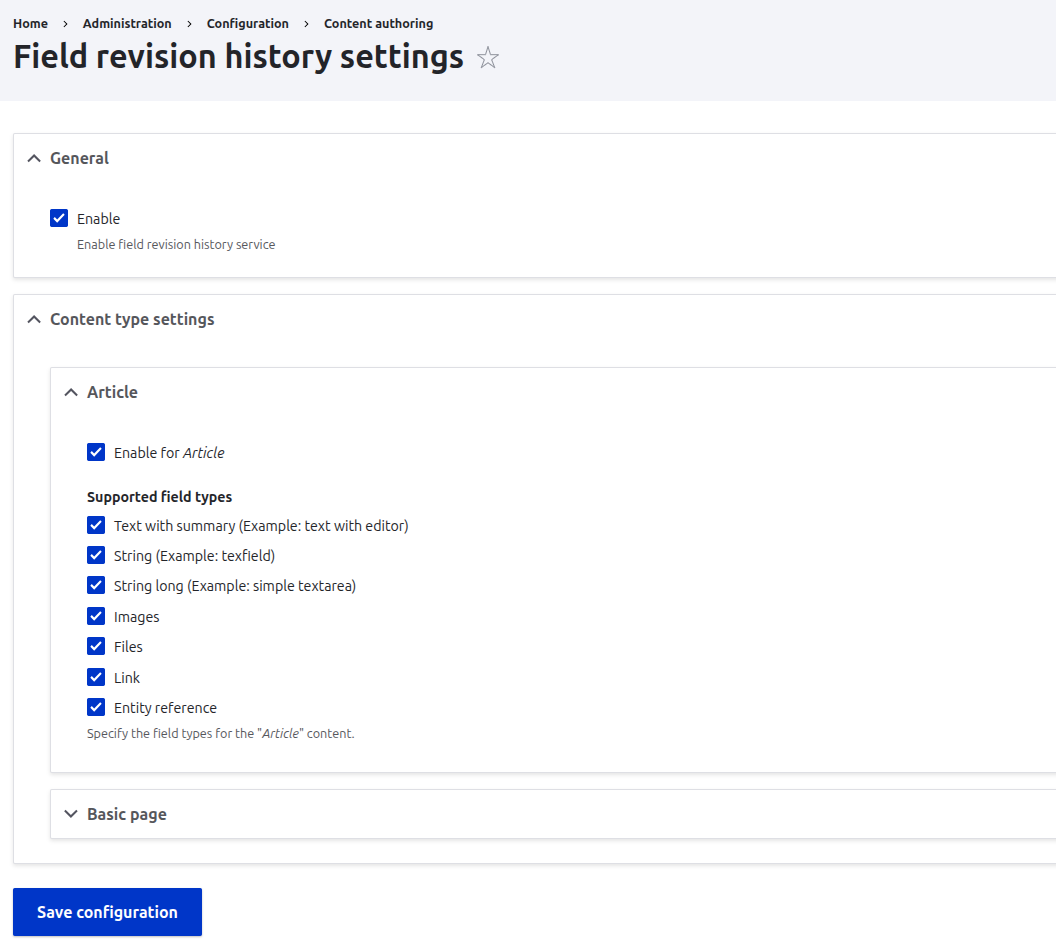
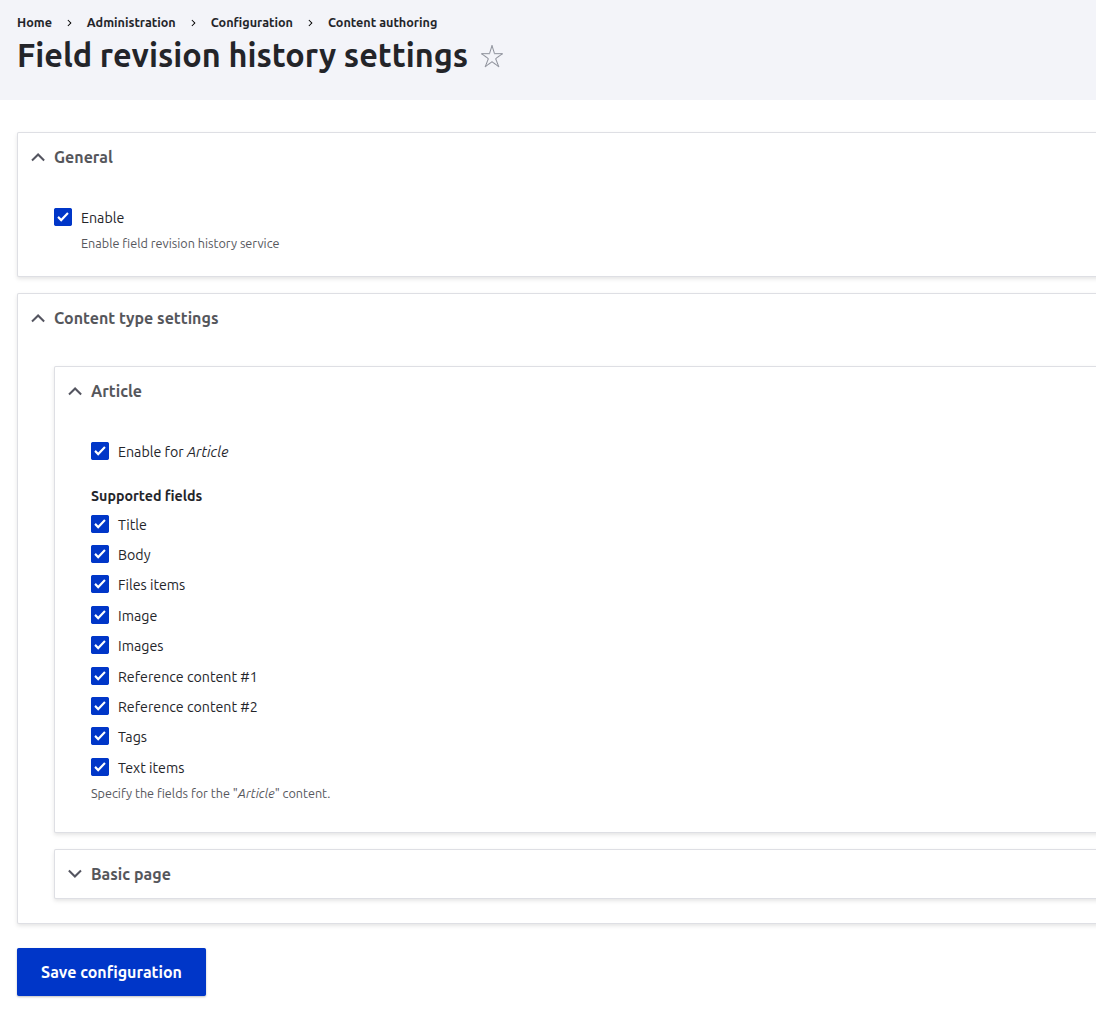
Refactor logic of settings form

diff --git a/src/FieldRevisionHistoryHelper.php b/src/FieldRevisionHistoryHelper.php
@@ -3,11 +3,13 @@
 namespace Drupal\field_revision_history;
 
 use Drupal\Component\Serialization\Json;
+use Drupal\Core\Config\ConfigFactoryInterface;
 use Drupal\Core\Datetime\DateFormatter;
 use Drupal\Core\Entity\EntityFieldManagerInterface;
 use Drupal\Core\Entity\EntityInterface;
 use Drupal\Core\Entity\EntityTypeManagerInterface;
 use Drupal\Core\Entity\RevisionableInterface;
+use Drupal\Core\Field\FieldDefinitionInterface;
 use Drupal\Core\Link;
 use Drupal\Core\Session\AccountInterface;
 use Drupal\Core\StringTranslation\StringTranslationTrait;
@@ -20,6 +22,20 @@ use Drupal\Core\Url;
 class FieldRevisionHistoryHelper {
 
   use StringTranslationTrait;
+
+  /**
+   * Fields list of system fields array.
+   */
+  public array $available_system_fields = [
+    'title',
+  ];
+
+  /**
+   * Fields list of system fields array.
+   */
+  public array $unavailable_system_fields = [
+    'comment',
+  ];
 
   /**
    * The date formatter service.
@@ -43,6 +59,14 @@ class FieldRevisionHistoryHelper {
   protected EntityFieldManagerInterface $entityFieldManager;
 
   /**
+   * The config service.
+   *
+   * @var ConfigFactoryInterface
+   *   The config service.
+   */
+  protected ConfigFactoryInterface $configFactory;
+
+  /**
    * The translation manager.
    *
    * @var TranslationInterface
@@ -58,8 +82,8 @@ class FieldRevisionHistoryHelper {
    *   The entity type manager.
    * @param EntityFieldManagerInterface $entity_field_manager
    *   The entity field manager.
-   * @param AccountInterface $current_user
-   *   The current user manager.
+   * @param ConfigFactoryInterface $config_factory
+   *   The config factory manager.
    * @param TranslationInterface $string_translation
    *   The string translation service.
    */
@@ -67,11 +91,13 @@ class FieldRevisionHistoryHelper {
     DateFormatter $date_formatter,
     EntityTypeManagerInterface $entity_type_manager,
     EntityFieldManagerInterface $entity_field_manager,
+    ConfigFactoryInterface $config_factory,
     TranslationInterface $string_translation,
   ) {
     $this->dateFormatter = $date_formatter;
     $this->entityTypeManager = $entity_type_manager;
     $this->entityFieldManager = $entity_field_manager;
+    $this->configFactory = $config_factory;
     $this->stringTranslation = $string_translation;
   }
 
@@ -387,6 +413,76 @@ class FieldRevisionHistoryHelper {
     }
 
     return Url::fromRoute($route, $options);
+  }
+
+  /**
+   * Help function to check is the service enabled or not.
+   *
+   * @return bool
+   *   Enabled or not.
+   */
+  public function isServiceEnabled(): bool {
+    $settings = $this->configFactory->get('field_revision_history.settings');
+    $enabled = $settings->get('enabled') ?? FALSE;
+    if (!$enabled) {
+      return FALSE;
+    }
+
+    return TRUE;
+  }
+
+  /**
+   * Help function to check is the current entity bundle enabled or not.
+   *
+   * @param EntityInterface $entity
+   *   The source entity.
+   *
+   * @return bool
+   *   Enabled or not.
+   */
+  public function isEntityBundleEnabled(EntityInterface $entity): bool {
+    $settings = $this->configFactory->get('field_revision_history.settings');
+    $entity_types = $settings->get('entity_types') ?? FALSE;
+    $enabled = $entity_types[$entity->getEntityTypeId()][$entity->bundle()]['enabled'] ?? FALSE;
+    if (!$enabled) {
+      return FALSE;
+    }
+
+    return TRUE;
+  }
+
+  /**
+   * Help function to check is the current field enabled or not.
+   *
+   * @param EntityInterface $entity
+   *   The source entity.
+   * @param FieldDefinitionInterface $field_definition
+   *   The source entity.
+   *
+   * @return bool
+   *   Enabled or not.
+   */
+  public function isFieldEnabled(EntityInterface $entity, FieldDefinitionInterface $field_definition): bool {
+    $settings = $this->configFactory->get('field_revision_history.settings');
+    $entity_types = $settings->get('entity_types') ?? FALSE;
+    $field_name = $field_definition->getName();
+
+    if ($field_definition->getFieldStorageDefinition()->isBaseField() &&
+      !in_array($field_name, $this->available_system_fields)) {
+      return FALSE;
+    }
+
+    // Skip unavailable fields.
+    if (in_array($field_name, $this->unavailable_system_fields)) {
+      return FALSE;
+    }
+
+    // Check field.
+    if (!in_array($field_name, $entity_types[$entity->getEntityTypeId()][$entity->bundle()]['fields'])) {
+      return FALSE;
+    }
+
+    return TRUE;
   }
 
 }

diff --git a/src/Form/SettingsForm.php b/src/Form/SettingsForm.php
@@ -26,6 +26,20 @@ class SettingsForm extends ConfigFormBase {
   ];
 
   /**
+   * Fields list of system fields array.
+   */
+  public array $available_system_fields = [
+    'title',
+  ];
+
+  /**
+   * Fields list of system fields array.
+   */
+  public array $unavailable_system_fields = [
+    'comment',
+  ];
+
+  /**
    * The entity type manager.
    *
    * @var EntityTypeManagerInterface
@@ -77,16 +91,6 @@ class SettingsForm extends ConfigFormBase {
   public function buildForm(array $form, FormStateInterface $form_state): array {
     $config = $this->config('field_revision_history.settings');
 
-    $field_types_options = [
-      'text_with_summary' => $this->t('Text with summary (Example: text with editor)'),
-      'string' => $this->t('String (Example: texfield)'),
-      'string_long' => $this->t('String long (Example: simple textarea)'),
-      'image' => $this->t('Images'),
-      'file' => $this->t('Files'),
-      'link' => $this->t('Link'),
-      'entity_reference' => $this->t('Entity reference'),
-    ];
-
     $form['general'] = [
       '#type' => 'details',
       '#title' => $this->t('General'),
@@ -123,27 +127,42 @@ class SettingsForm extends ConfigFormBase {
           '#title' => $definition->getLabel(),
         ];
         foreach ($bundles as $bundle) {
-          $field_types_enabled = $entity_types[$entity_type][$bundle->id()]['enabled'] ?? 0;
-          $field_types_default = $entity_types[$entity_type][$bundle->id()]['field_types'] ?? [];
+          $enabled = $entity_types[$entity_type][$bundle->id()]['enabled'] ?? 0;
+          $fields = $entity_types[$entity_type][$bundle->id()]['fields'] ?? [];
+
+          $options = [];
+          $field_definitions = \Drupal::service('entity_field.manager')->getFieldDefinitions($entity_type, $bundle->id());
+          foreach ($field_definitions as $field_name => $field_definition) {
+            // Skip based fields.
+            if ($field_definition->getFieldStorageDefinition()->isBaseField() && !in_array($field_name, $this->available_system_fields)) {
+              continue;
+            }
+
+            // Skip unavailable fields.
+            if (in_array($field_name, $this->unavailable_system_fields)) {
+              continue;
+            }
+            $options[$field_name] = $field_definition->getLabel();
+          }
 
           $form['entity_types'][$entity_type][$bundle->id()] = [
             '#type' => 'details',
             '#title' => $bundle->label(),
-            '#open' => $field_types_enabled ?? FALSE,
+            '#open' => $enabled ?? FALSE,
           ];
 
           $form['entity_types'][$entity_type][$bundle->id()]['enabled'] = [
             '#type' => 'checkbox',
             '#title' => $this->t('Enable for %label', ['%label' => $bundle->label()]),
-            '#default_value' => $field_types_enabled,
+            '#default_value' => $enabled,
           ];
 
-          $form['entity_types'][$entity_type][$bundle->id()]['field_types'] = [
+          $form['entity_types'][$entity_type][$bundle->id()]['fields'] = [
             '#type' => 'checkboxes',
-            '#title' => $this->t('Supported field types'),
-            '#options' => $field_types_options,
-            '#default_value' => $field_types_default,
-            '#description' => $this->t('Specify the field types for the "%type" content.', ['%type' => $bundle->label()]),
+            '#title' => $this->t('Supported fields'),
+            '#options' => $options,
+            '#default_value' => $fields,
+            '#description' => $this->t('Specify the fields for the "%type" content.', ['%type' => $bundle->label()]),
             '#states' => [
               'visible' => [
                 ':input[name="entity_types[' . $entity_type . '][' . $bundle->id() . '][enabled]"]' => ['checked' => TRUE],

diff --git a/src/Hook/FormAlter.php b/src/Hook/FormAlter.php
@@ -5,13 +5,13 @@ namespace Drupal\field_revision_history\Hook;
 use Drupal\Component\Utility\Html;
 use Drupal\Core\Config\ConfigFactoryInterface;
 use Drupal\Core\Entity\EntityFormInterface;
-use Drupal\Core\Field\FieldConfigInterface;
 use Drupal\Core\Form\FormStateInterface;
 use Drupal\Core\Hook\Attribute\Hook;
 use Drupal\Core\Render\RendererInterface;
 use Drupal\Core\StringTranslation\StringTranslationTrait;
 use Drupal\Core\Url;
 use Drupal\field_revision_history\FieldRevisionHistoryElement;
+use Drupal\field_revision_history\FieldRevisionHistoryHelper;
 use Drupal\node\NodeInterface;
 
 /**
@@ -21,16 +21,10 @@ class FormAlter {
 
   use StringTranslationTrait;
 
-  /**
-   * Fields list of system fields array.
-   */
-  public array $available_system_fields = [
-    'title',
-  ];
-
   public function __construct(
     private RendererInterface $renderer,
     private ConfigFactoryInterface $configFactory,
+    private FieldRevisionHistoryHelper $fieldRevisionHistoryHelper,
     private FieldRevisionHistoryElement $fieldRevisionHistoryElement,
   ) {
   }
@@ -40,6 +34,13 @@ class FormAlter {
    */
   #[Hook('form_alter')]
   public function formAlter(array &$form, FormStateInterface $form_state, $form_id): void {
+    // Check is the service available.
+    $service_enabled = $this->fieldRevisionHistoryHelper->isServiceEnabled();
+    if (!$service_enabled) {
+      return;
+    }
+
+    // Check form type.
     if (!$form_state->getFormObject() instanceof EntityFormInterface) {
       return;
     }
@@ -69,12 +70,6 @@ class FormAlter {
     $is_revisionable = $entity_type->isRevisionable();
     // If entity doesnt support revisions.
     if (!$is_revisionable) {
-      return;
-    }
-
-    $settings = $this->configFactory->get('field_revision_history.settings');
-    $enabled = $settings->get('enabled') ?? FALSE;
-    if (!$enabled) {
       return;
     }
 
@@ -113,17 +108,15 @@ class FormAlter {
 
     // Check all content contrib fields.
     foreach ($entity->getFieldDefinitions() as $field_name => $field_definition) {
-      // Skip system fields like Author, Revision log, etc.
-      // Keep Title field in the list.
-      if (!$field_definition instanceof FieldConfigInterface && !in_array($field_name, $this->available_system_fields)) {
+      // Check is current bundle enabled or not.
+      if (!$this->fieldRevisionHistoryHelper->isEntityBundleEnabled($entity)) {
         continue;
       }
 
-      // Check settings.
-      $entity_types = $settings->get('entity_types') ?? [];
-      $enabled = $entity_types[$entity->getEntityTypeId()][$entity->bundle()]['enabled'] ?? FALSE;
-      $field_types = $entity_types[$entity->getEntityTypeId()][$entity->bundle()]['field_types'] ?? [];
-      if (!$enabled || !in_array($field_definition->getType(), $field_types)) {
+      // Skip system fields like Author, Revision log, etc.
+      // Keep Title field in the list.
+      // Skip based fields.
+      if (!$this->fieldRevisionHistoryHelper->isFieldEnabled($entity, $field_definition)) {
         continue;
       }
 

diff --git a/README.md b/README.md
@@ -110,7 +110,7 @@ Notes:
 ## Entity and field support
 
 - Entities: nodes only in the initial release
-- Field types: aims to work with most standard field types. Rendering and comparison of complex field types may vary
+- Fields: aims to work with most standard field types. Rendering and comparison of complex field types may vary
 
 ## Troubleshooting
 The link does not appear:
